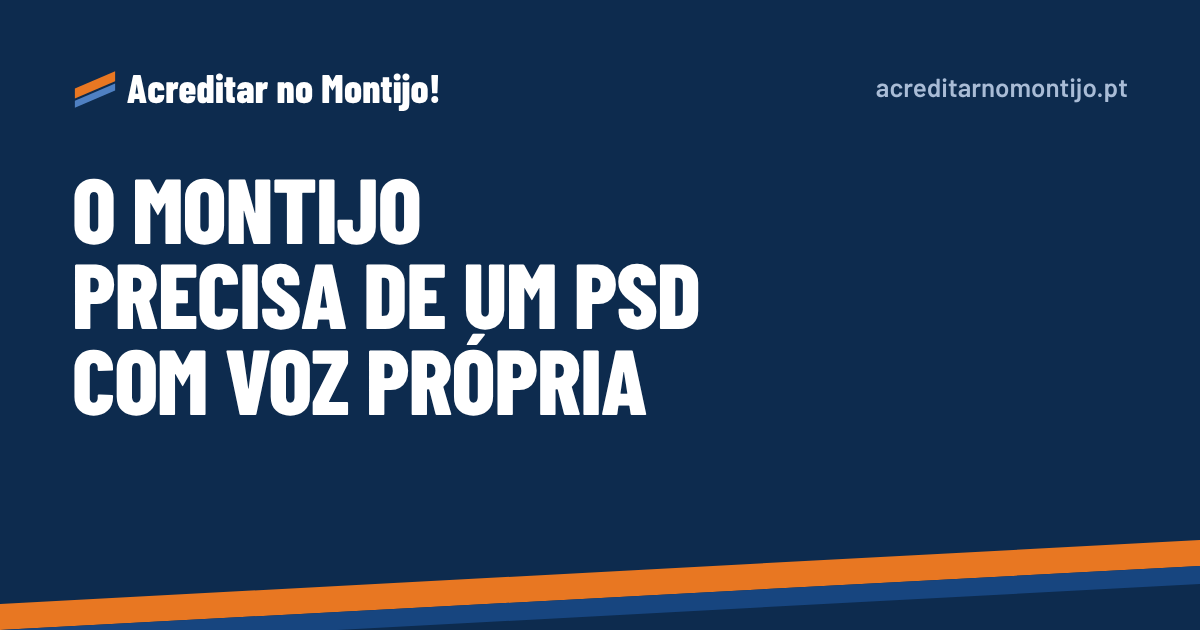
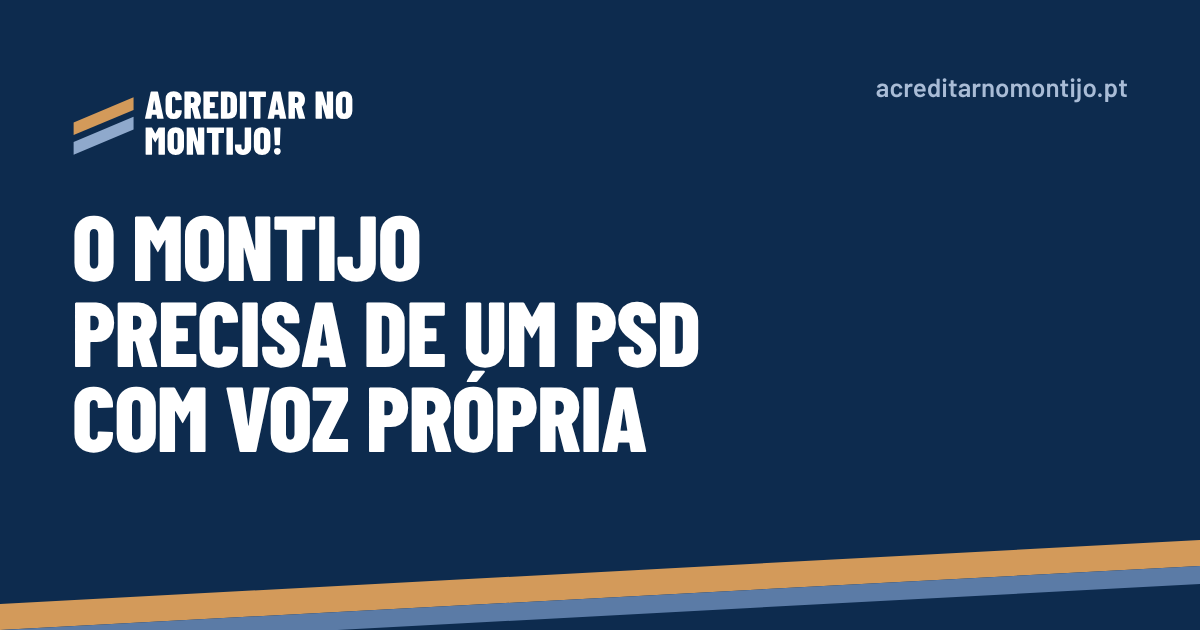
Logótipo novo e cores mais sóbrias
Claude-Session: https://claude.ai/code/session_01CCbZU9Lu9dDMmLT2dvyvMQ

Changed region(s): [[0.0617, 0.2714, 0.5858, 0.7238], [0.0, 0.8444, 1.0, 1.0], [0.0617, 0.1206, 0.37, 0.2413]]

diff --git a/assets/site.css b/assets/site.css
@@ -13,7 +13,8 @@
 :root {
   --azul: #17457F;
   --noite: #0D2B4E;
-  --laranja: #E87722;
+  --laranja: #D39A5A;      /* âmbar suave, igual ao logótipo */
+  --ardosia: #5B7BA6;      /* azul-ardósia do logótipo */
   --vermelho: #C8322B;
   --nevoa: #F1F4F8;
   --linha: #D5DCE6;
@@ -45,7 +46,8 @@ img, svg { display: block; max-width: 100%; }
 p, ul, ol, dl, figure { margin: 0 0 1em; }
 a { color: var(--azul); text-underline-offset: .18em; text-decoration-thickness: 1px; }
 a:hover { text-decoration-thickness: 2px; }
-:focus-visible { outline: 3px solid var(--laranja); outline-offset: 3px; border-radius: 2px; }
+:focus-visible { outline: 3px solid var(--azul); outline-offset: 3px; border-radius: 2px; }
+.topo :focus-visible, .abertura :focus-visible, .banda :focus-visible, .rodape :focus-visible { outline-color: var(--laranja); }
 .so-leitores { position: absolute; width: 1px; height: 1px; overflow: hidden; clip: rect(0 0 0 0); white-space: nowrap; }
 .saltar { position: absolute; left: 1rem; top: -4rem; background: var(--laranja); color: var(--noite); padding: .6rem 1rem; font: 600 1rem var(--ui); z-index: 10; }
 .saltar:focus { top: 1rem; }
@@ -64,7 +66,9 @@ h3 { font-size: 1.6rem; line-height: 1.08; }
 .topo .contentor { display: grid; grid-template-columns: 1fr auto; grid-template-areas: "marca botao" "menu menu"; align-items: center; gap: .5rem .6rem; padding-top: .9rem; padding-bottom: .7rem; }
 @media (min-width: 54rem) { .topo .contentor { grid-template-columns: auto 1fr auto; grid-template-areas: "marca menu botao"; gap: .75rem 2rem; padding-top: 1rem; padding-bottom: 1rem; } }
 .marca { grid-area: marca; display: inline-flex; align-items: center; gap: .55rem; color: var(--branco); text-decoration: none; font-family: var(--display); font-weight: 800; font-size: clamp(1.12rem, 5vw, 1.55rem); letter-spacing: .005em; line-height: 1; white-space: nowrap; }
-.marca svg { width: 1.9rem; height: 1.9rem; flex: none; }
+.marca img { display: block; height: clamp(2.3rem, 9vw, 2.7rem); width: auto; }
+@media (min-width: 54rem) { .marca img { height: 3rem; } }
+.marca-rodape img, .rodape .marca img { height: 3.4rem; }
 .marca:hover { text-decoration: none; }
 .menu { grid-area: menu; }
 @media (min-width: 54rem) { .menu { justify-self: end; } }
@@ -82,7 +86,7 @@ h3 { font-size: 1.6rem; line-height: 1.08; }
   background: var(--laranja); color: var(--noite); border: 2px solid var(--laranja);
   padding: .85rem 1.4rem; border-radius: 3px;
 }
-.botao:hover { background: #F08B3D; border-color: #F08B3D; color: var(--noite); }
+.botao:hover { background: #DEAD73; border-color: #DEAD73; color: var(--noite); }
 .botao-linha { background: transparent; color: inherit; border-color: currentColor; }
 .botao-linha:hover { background: rgba(130,150,180,.14); border-color: currentColor; color: inherit; }
 .botoes { display: flex; flex-wrap: wrap; gap: .8rem; margin-top: 2rem; }
@@ -114,7 +118,7 @@ h3 { font-size: 1.6rem; line-height: 1.08; }
 /* faixa diagonal do logótipo: aparece duas vezes, no fim da abertura e no início do rodapé */
 .faixa { display: block; width: 100%; height: clamp(48px, 8vw, 120px); }
 .faixa .f-laranja { fill: var(--laranja); }
-.faixa .f-azul { fill: var(--azul); }
+.faixa .f-azul { fill: var(--ardosia); }
 .faixa .f-noite { fill: var(--noite); }
 @media (prefers-reduced-motion: no-preference) {
   .faixa-entrada .f-laranja, .faixa-entrada .f-azul { animation: corte .9s cubic-bezier(.2,.7,.2,1) both; }

diff --git a/contactos.html b/contactos.html
@@ -27,7 +27,7 @@
 <a class="saltar" href="#conteudo">Saltar para o conteúdo</a>
 <header class="topo">
   <div class="contentor">
-    <a class="marca" href="index.html"><svg viewBox="0 0 32 32" aria-hidden="true" focusable="false"><path d="M2 17 30 5v7L2 24Z" fill="#E87722"/><path d="M2 25.5 30 13.5v5L2 30.5Z" fill="#4F80C2"/></svg><span>Acreditar no Montijo!</span></a>
+    <a class="marca" href="index.html"><img src="assets/logo-negativo.svg" alt="Acreditar no Montijo!" width="127" height="48"></a>
     <nav class="menu" aria-label="Principal">
       <ul><li><a href="movimento.html">Movimento</a></li><li><a href="contactos.html" aria-current="page">Contactos</a></li></ul>
     </nav>
@@ -65,7 +65,7 @@
   <div class="contentor">
     <div class="rodape-grelha">
       <div>
-        <a class="marca" href="index.html"><svg viewBox="0 0 32 32" aria-hidden="true" focusable="false"><path d="M2 17 30 5v7L2 24Z" fill="#E87722"/><path d="M2 25.5 30 13.5v5L2 30.5Z" fill="#4F80C2"/></svg><span>Acreditar no Montijo!</span></a>
+        <a class="marca marca-rodape" href="index.html"><img src="assets/logo-negativo.svg" alt="Acreditar no Montijo!" width="144" height="54"></a>
         <p>Um movimento dentro do PSD Montijo.</p>
       </div>
       <div>

diff --git a/movimento.html b/movimento.html
@@ -27,7 +27,7 @@
 <a class="saltar" href="#conteudo">Saltar para o conteúdo</a>
 <header class="topo">
   <div class="contentor">
-    <a class="marca" href="index.html"><svg viewBox="0 0 32 32" aria-hidden="true" focusable="false"><path d="M2 17 30 5v7L2 24Z" fill="#E87722"/><path d="M2 25.5 30 13.5v5L2 30.5Z" fill="#4F80C2"/></svg><span>Acreditar no Montijo!</span></a>
+    <a class="marca" href="index.html"><img src="assets/logo-negativo.svg" alt="Acreditar no Montijo!" width="127" height="48"></a>
     <nav class="menu" aria-label="Principal">
       <ul><li><a href="movimento.html" aria-current="page">Movimento</a></li><li><a href="contactos.html">Contactos</a></li></ul>
     </nav>
@@ -82,7 +82,7 @@
   <div class="contentor">
     <div class="rodape-grelha">
       <div>
-        <a class="marca" href="index.html"><svg viewBox="0 0 32 32" aria-hidden="true" focusable="false"><path d="M2 17 30 5v7L2 24Z" fill="#E87722"/><path d="M2 25.5 30 13.5v5L2 30.5Z" fill="#4F80C2"/></svg><span>Acreditar no Montijo!</span></a>
+        <a class="marca marca-rodape" href="index.html"><img src="assets/logo-negativo.svg" alt="Acreditar no Montijo!" width="144" height="54"></a>
         <p>Um movimento dentro do PSD Montijo.</p>
       </div>
       <div>

diff --git a/404.html b/404.html
@@ -27,7 +27,7 @@
 <a class="saltar" href="#conteudo">Saltar para o conteúdo</a>
 <header class="topo">
   <div class="contentor">
-    <a class="marca" href="/index.html"><svg viewBox="0 0 32 32" aria-hidden="true" focusable="false"><path d="M2 17 30 5v7L2 24Z" fill="#E87722"/><path d="M2 25.5 30 13.5v5L2 30.5Z" fill="#4F80C2"/></svg><span>Acreditar no Montijo!</span></a>
+    <a class="marca" href="/index.html"><img src="/assets/logo-negativo.svg" alt="Acreditar no Montijo!" width="127" height="48"></a>
     <nav class="menu" aria-label="Principal">
       <ul><li><a href="/movimento.html">Movimento</a></li><li><a href="/contactos.html">Contactos</a></li></ul>
     </nav>
@@ -50,7 +50,7 @@
   <div class="contentor">
     <div class="rodape-grelha">
       <div>
-        <a class="marca" href="/index.html"><svg viewBox="0 0 32 32" aria-hidden="true" focusable="false"><path d="M2 17 30 5v7L2 24Z" fill="#E87722"/><path d="M2 25.5 30 13.5v5L2 30.5Z" fill="#4F80C2"/></svg><span>Acreditar no Montijo!</span></a>
+        <a class="marca marca-rodape" href="/index.html"><img src="/assets/logo-negativo.svg" alt="Acreditar no Montijo!" width="144" height="54"></a>
         <p>Um movimento dentro do PSD Montijo.</p>
       </div>
       <div>

diff --git a/index.html b/index.html
@@ -27,7 +27,7 @@
 <a class="saltar" href="#conteudo">Saltar para o conteúdo</a>
 <header class="topo">
   <div class="contentor">
-    <a class="marca" href="index.html"><svg viewBox="0 0 32 32" aria-hidden="true" focusable="false"><path d="M2 17 30 5v7L2 24Z" fill="#E87722"/><path d="M2 25.5 30 13.5v5L2 30.5Z" fill="#4F80C2"/></svg><span>Acreditar no Montijo!</span></a>
+    <a class="marca" href="index.html"><img src="assets/logo-negativo.svg" alt="Acreditar no Montijo!" width="127" height="48"></a>
     <nav class="menu" aria-label="Principal">
       <ul><li><a href="movimento.html">Movimento</a></li><li><a href="contactos.html">Contactos</a></li></ul>
     </nav>
@@ -118,7 +118,7 @@
   <div class="contentor">
     <div class="rodape-grelha">
       <div>
-        <a class="marca" href="index.html"><svg viewBox="0 0 32 32" aria-hidden="true" focusable="false"><path d="M2 17 30 5v7L2 24Z" fill="#E87722"/><path d="M2 25.5 30 13.5v5L2 30.5Z" fill="#4F80C2"/></svg><span>Acreditar no Montijo!</span></a>
+        <a class="marca marca-rodape" href="index.html"><img src="assets/logo-negativo.svg" alt="Acreditar no Montijo!" width="144" height="54"></a>
         <p>Um movimento dentro do PSD Montijo.</p>
       </div>
       <div>

diff --git a/participar.html b/participar.html
@@ -27,7 +27,7 @@
 <a class="saltar" href="#conteudo">Saltar para o conteúdo</a>
 <header class="topo">
   <div class="contentor">
-    <a class="marca" href="index.html"><svg viewBox="0 0 32 32" aria-hidden="true" focusable="false"><path d="M2 17 30 5v7L2 24Z" fill="#E87722"/><path d="M2 25.5 30 13.5v5L2 30.5Z" fill="#4F80C2"/></svg><span>Acreditar no Montijo!</span></a>
+    <a class="marca" href="index.html"><img src="assets/logo-negativo.svg" alt="Acreditar no Montijo!" width="127" height="48"></a>
     <nav class="menu" aria-label="Principal">
       <ul><li><a href="movimento.html">Movimento</a></li><li><a href="contactos.html">Contactos</a></li></ul>
     </nav>
@@ -123,7 +123,7 @@
   <div class="contentor">
     <div class="rodape-grelha">
       <div>
-        <a class="marca" href="index.html"><svg viewBox="0 0 32 32" aria-hidden="true" focusable="false"><path d="M2 17 30 5v7L2 24Z" fill="#E87722"/><path d="M2 25.5 30 13.5v5L2 30.5Z" fill="#4F80C2"/></svg><span>Acreditar no Montijo!</span></a>
+        <a class="marca marca-rodape" href="index.html"><img src="assets/logo-negativo.svg" alt="Acreditar no Montijo!" width="144" height="54"></a>
         <p>Um movimento dentro do PSD Montijo.</p>
       </div>
       <div>

diff --git a/privacidade.html b/privacidade.html
@@ -27,7 +27,7 @@
 <a class="saltar" href="#conteudo">Saltar para o conteúdo</a>
 <header class="topo">
   <div class="contentor">
-    <a class="marca" href="index.html"><svg viewBox="0 0 32 32" aria-hidden="true" focusable="false"><path d="M2 17 30 5v7L2 24Z" fill="#E87722"/><path d="M2 25.5 30 13.5v5L2 30.5Z" fill="#4F80C2"/></svg><span>Acreditar no Montijo!</span></a>
+    <a class="marca" href="index.html"><img src="assets/logo-negativo.svg" alt="Acreditar no Montijo!" width="127" height="48"></a>
     <nav class="menu" aria-label="Principal">
       <ul><li><a href="movimento.html">Movimento</a></li><li><a href="contactos.html">Contactos</a></li></ul>
     </nav>
@@ -77,7 +77,7 @@
   <div class="contentor">
     <div class="rodape-grelha">
       <div>
-        <a class="marca" href="index.html"><svg viewBox="0 0 32 32" aria-hidden="true" focusable="false"><path d="M2 17 30 5v7L2 24Z" fill="#E87722"/><path d="M2 25.5 30 13.5v5L2 30.5Z" fill="#4F80C2"/></svg><span>Acreditar no Montijo!</span></a>
+        <a class="marca marca-rodape" href="index.html"><img src="assets/logo-negativo.svg" alt="Acreditar no Montijo!" width="144" height="54"></a>
         <p>Um movimento dentro do PSD Montijo.</p>
       </div>
       <div>
